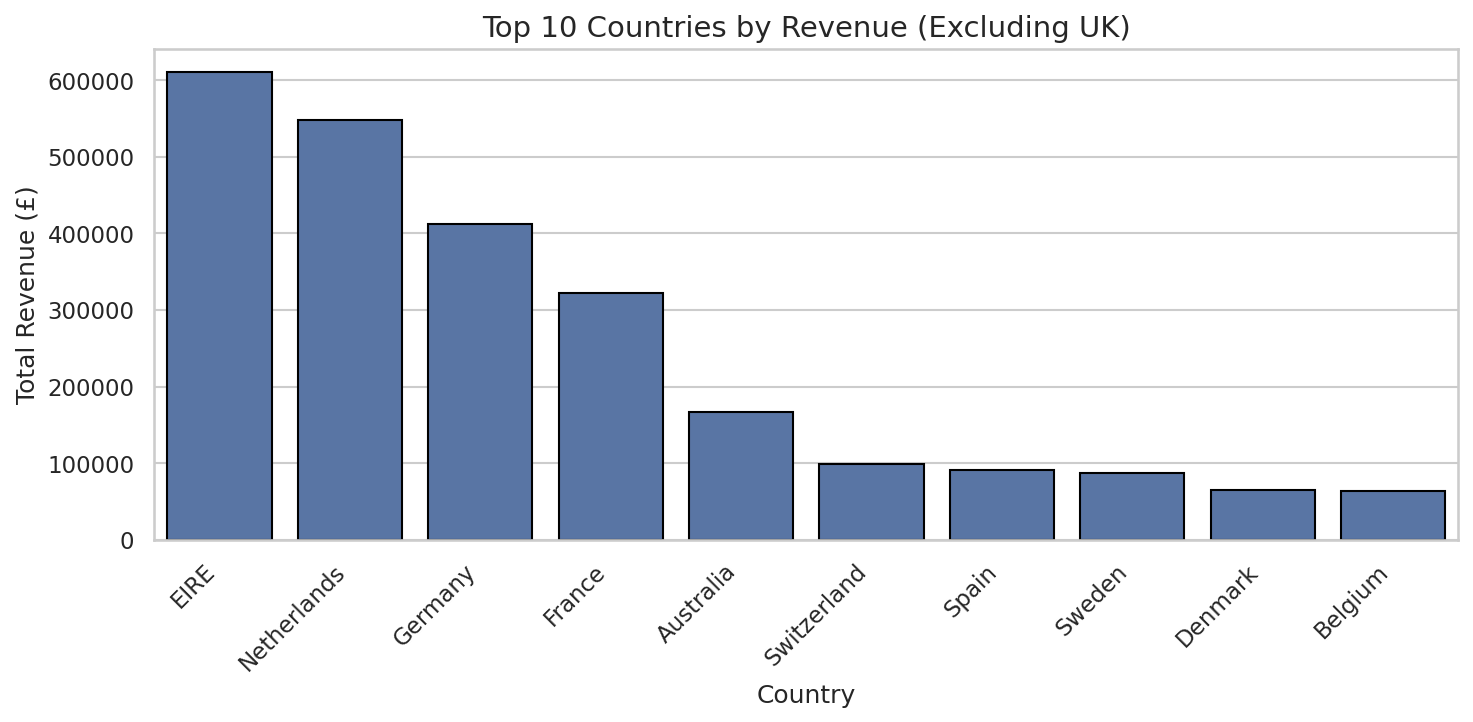
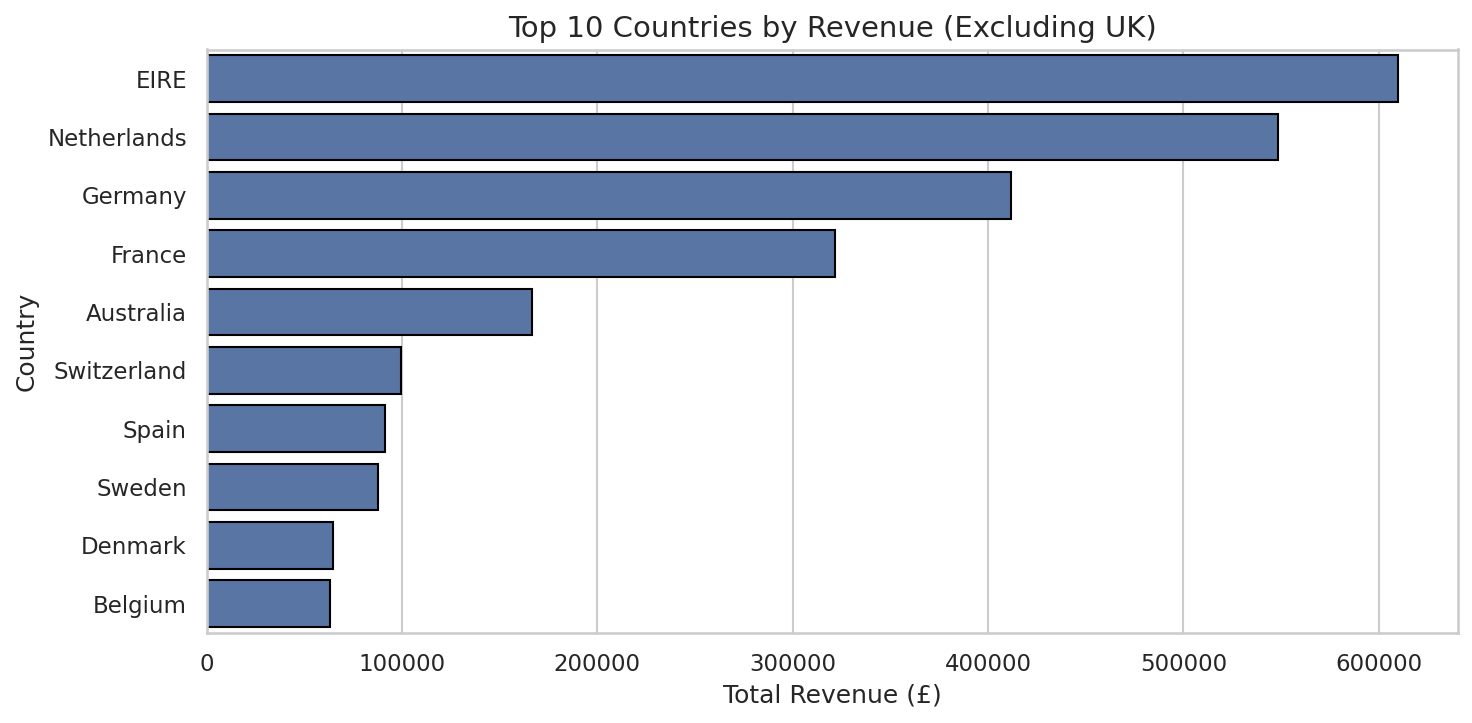
feat: complete EDA notebook, visualizations, anomaly analysis, report, and README

diff --git a/projects/retail-sales-eda/README.md b/projects/retail-sales-eda/README.md
@@ -1,0 +1,51 @@
+
+## What This Project Is
+I redid my UT Dallas/Full Stack bootcamp data science notebook. This is just pure EDA on retail sales and no models were trained. Most of the code is the same from my old notebook but I switched out the dataset and used the UCI Online Retail II data.
+
+
+Download the UCI Online Retail II dataset from their website below and place it in `data/raw/online_retail.xlsx`:
+https://archive.ics.uci.edu/dataset/502/online+retail+ii
+
+
+Tasks Completed:
+- Swapped synthetic AAL data for real UCI Online Retail II dataset
+- Created revenue column, set datetime index
+- Analyzed country revenue and volume, hour of day, time series trends
+- Built 5 visualizations
+- Anomaly/cancellation analysis
+- Saved cleaned data and summary tables
+- Written summary report
+
+
+## Project Structure
+```text
+retail-sales-eda/
+│
+├── data/
+│   ├── processed/
+│   │   ├── sales_analysis_cleaned.csv
+│   │   ├── by_country_revenue.csv
+│   │   ├── top_products_rev.csv
+│   │   ├── top_products_qty.csv
+│   │   ├── by_hour.csv
+│   │   └── monthlytotals.csv
+│   └── raw/
+│       └── online_retail.xlsx        # Source data - download from UCI Website
+│
+├── notebooks/
+│   └── sales_analysis.ipynb
+│
+├── outputs/
+│   ├── figures/
+│   │   ├── revenue_by_country.png
+│   │   ├── monthly_revenue_trend.png
+│   │   ├── top_products_revenue.png
+│   │   ├── top_products_volume.png
+│   │   └── sales_by_hour.png
+│   └── reports/
+│       └── sales_report.txt
+│
+├── .gitignore
+├── README.md
+└── requirements.txt
+```